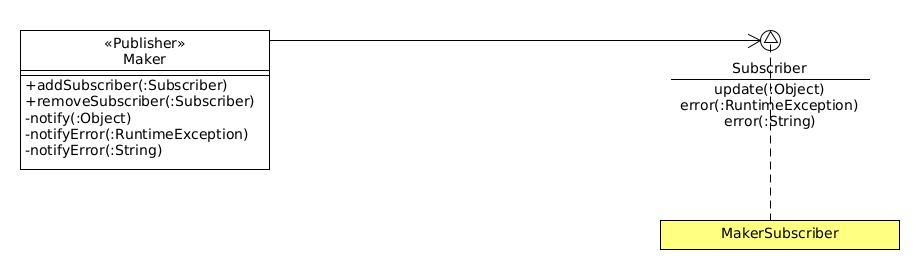
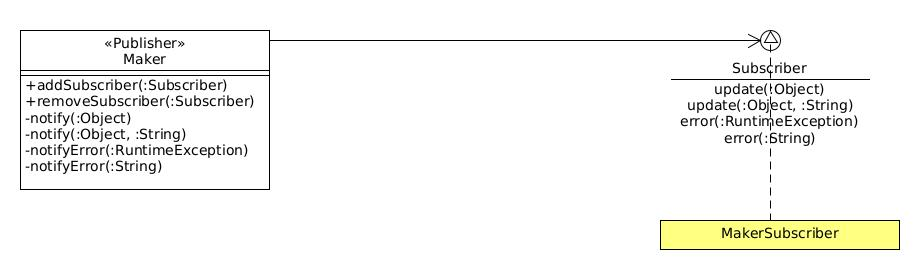
05-19-23-01

Changed region(s): [[0.0304, 0.4741, 0.3043, 0.6519], [0.7304, 0.3556, 0.9435, 0.5333], [0.0304, 0.6815, 0.3043, 0.7111]]

diff --git a/Maker.java b/Maker.java
@@ -37,8 +37,6 @@ public class Maker implements Runnable{
       //Two lines below may be temporary
       this._o         = new Object();
       carafe.setObject(this._o);
-      //REMOVE THE TEST PRINTS!!!
-      //System.out.println(Thread.currentThread().getId());
       this._t = new Thread(this);
       //since power is on, go ahead and start the thread...
       //this is the POWERON (super)state
@@ -70,8 +68,6 @@ public class Maker implements Runnable{
             this._reservoir.fill(amount);
          }
          catch(OverflowException oe){
-            //oe.printStackTrace();
-            System.out.println(oe.getMessage());
             this.notifyError(oe.getMessage());
          }
          finally{
@@ -79,9 +75,7 @@ public class Maker implements Runnable{
          }
       }
       else{
-         //AlreadyBrewingException abe = new AlreadyBrewingException();
          this.notifyError(new AlreadyBrewingException());
-         //throw(abe);
       }
    }
 
@@ -160,6 +154,17 @@ public class Maker implements Runnable{
          Subscriber s = it.next();
          //Do this part for now...as just part of testing...
          s.update(o);
+      }
+   }
+
+   //
+   //
+   //
+   private void notify(Object object, String string){
+      Iterator<Subscriber> it = this._subscribers.iterator();
+      while(it.hasNext()){
+         Subscriber s = it.next();
+         s.update(object, string);
       }
    }
 

diff --git a/Carafe.java b/Carafe.java
@@ -94,13 +94,6 @@ public class Carafe implements Runnable, CarafeInterface{
 
 
    //
-   //This may change to be an interface implentation...
-   //
-   public double quantity(){
-         return this._quantity;
-   }
-
-   //
    //
    //
    public void takeOutOfUse(){
@@ -196,6 +189,13 @@ public class Carafe implements Runnable, CarafeInterface{
          throw new NotPulledException();
       }
       */
+   }
+
+   //
+   //This may change to be an interface implentation...
+   //
+   public double quantity(){
+      return this._quantity;
    }
 
    //

diff --git a/CarafeInterface.java b/CarafeInterface.java
@@ -12,7 +12,8 @@ import rosas.lou.runnables.*;
 //
 
 public interface CarafeInterface{
-   public void pour(Mug mug) throws NotPulledException;
-   public void stopPour();
+   public void   pour(Mug mug) throws NotPulledException;
+   public double quantity();
+   public void   stopPour();
 }
 //////////////////////////////////////////////////////////////////////

diff --git a/MakerSubscriber.java b/MakerSubscriber.java
@@ -29,6 +29,11 @@ public class MakerSubscriber implements Subscriber{
    //
    //
    //
+   public void update(Object o, String s){}
+
+   //
+   //
+   //
    public void error(RuntimeException re){
       //Temporary fix for the moment...
       System.out.println(re);

diff --git a/Subscriber.java b/Subscriber.java
@@ -12,6 +12,7 @@ import rosas.lou.runnables.*;
 //
 public interface Subscriber{
    public void update(Object o);
+   public void update(Object o, String s);
    public void error(RuntimeException re);
    public void error(String error);
 }
